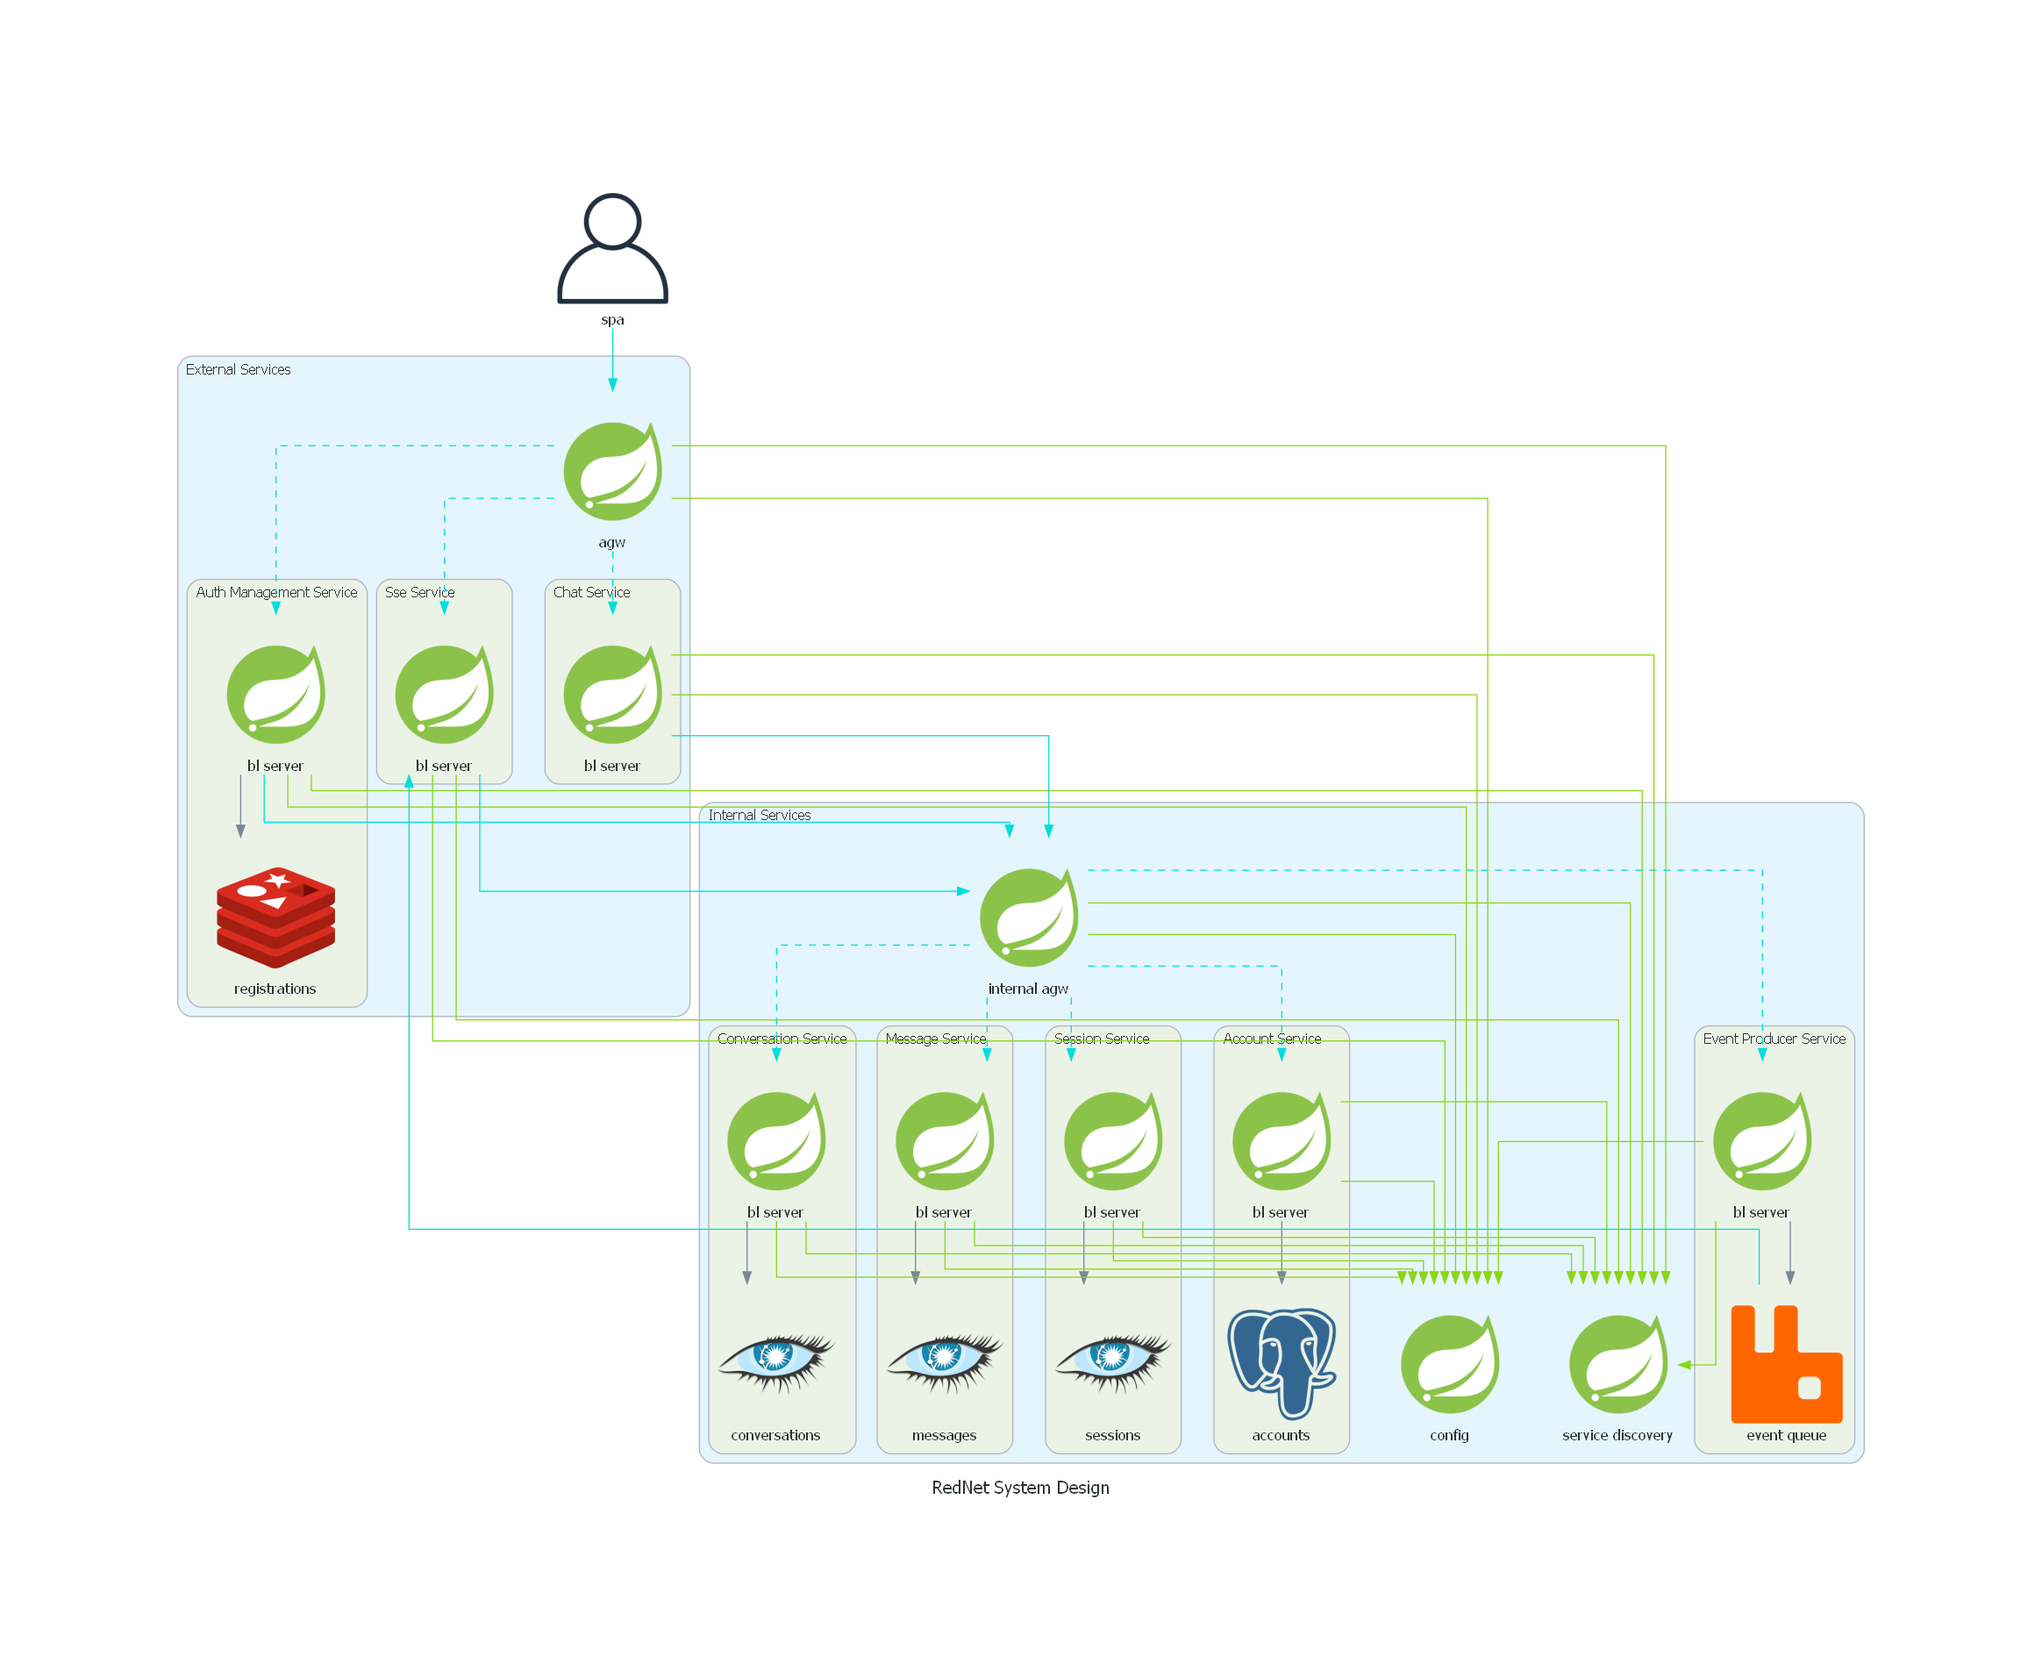
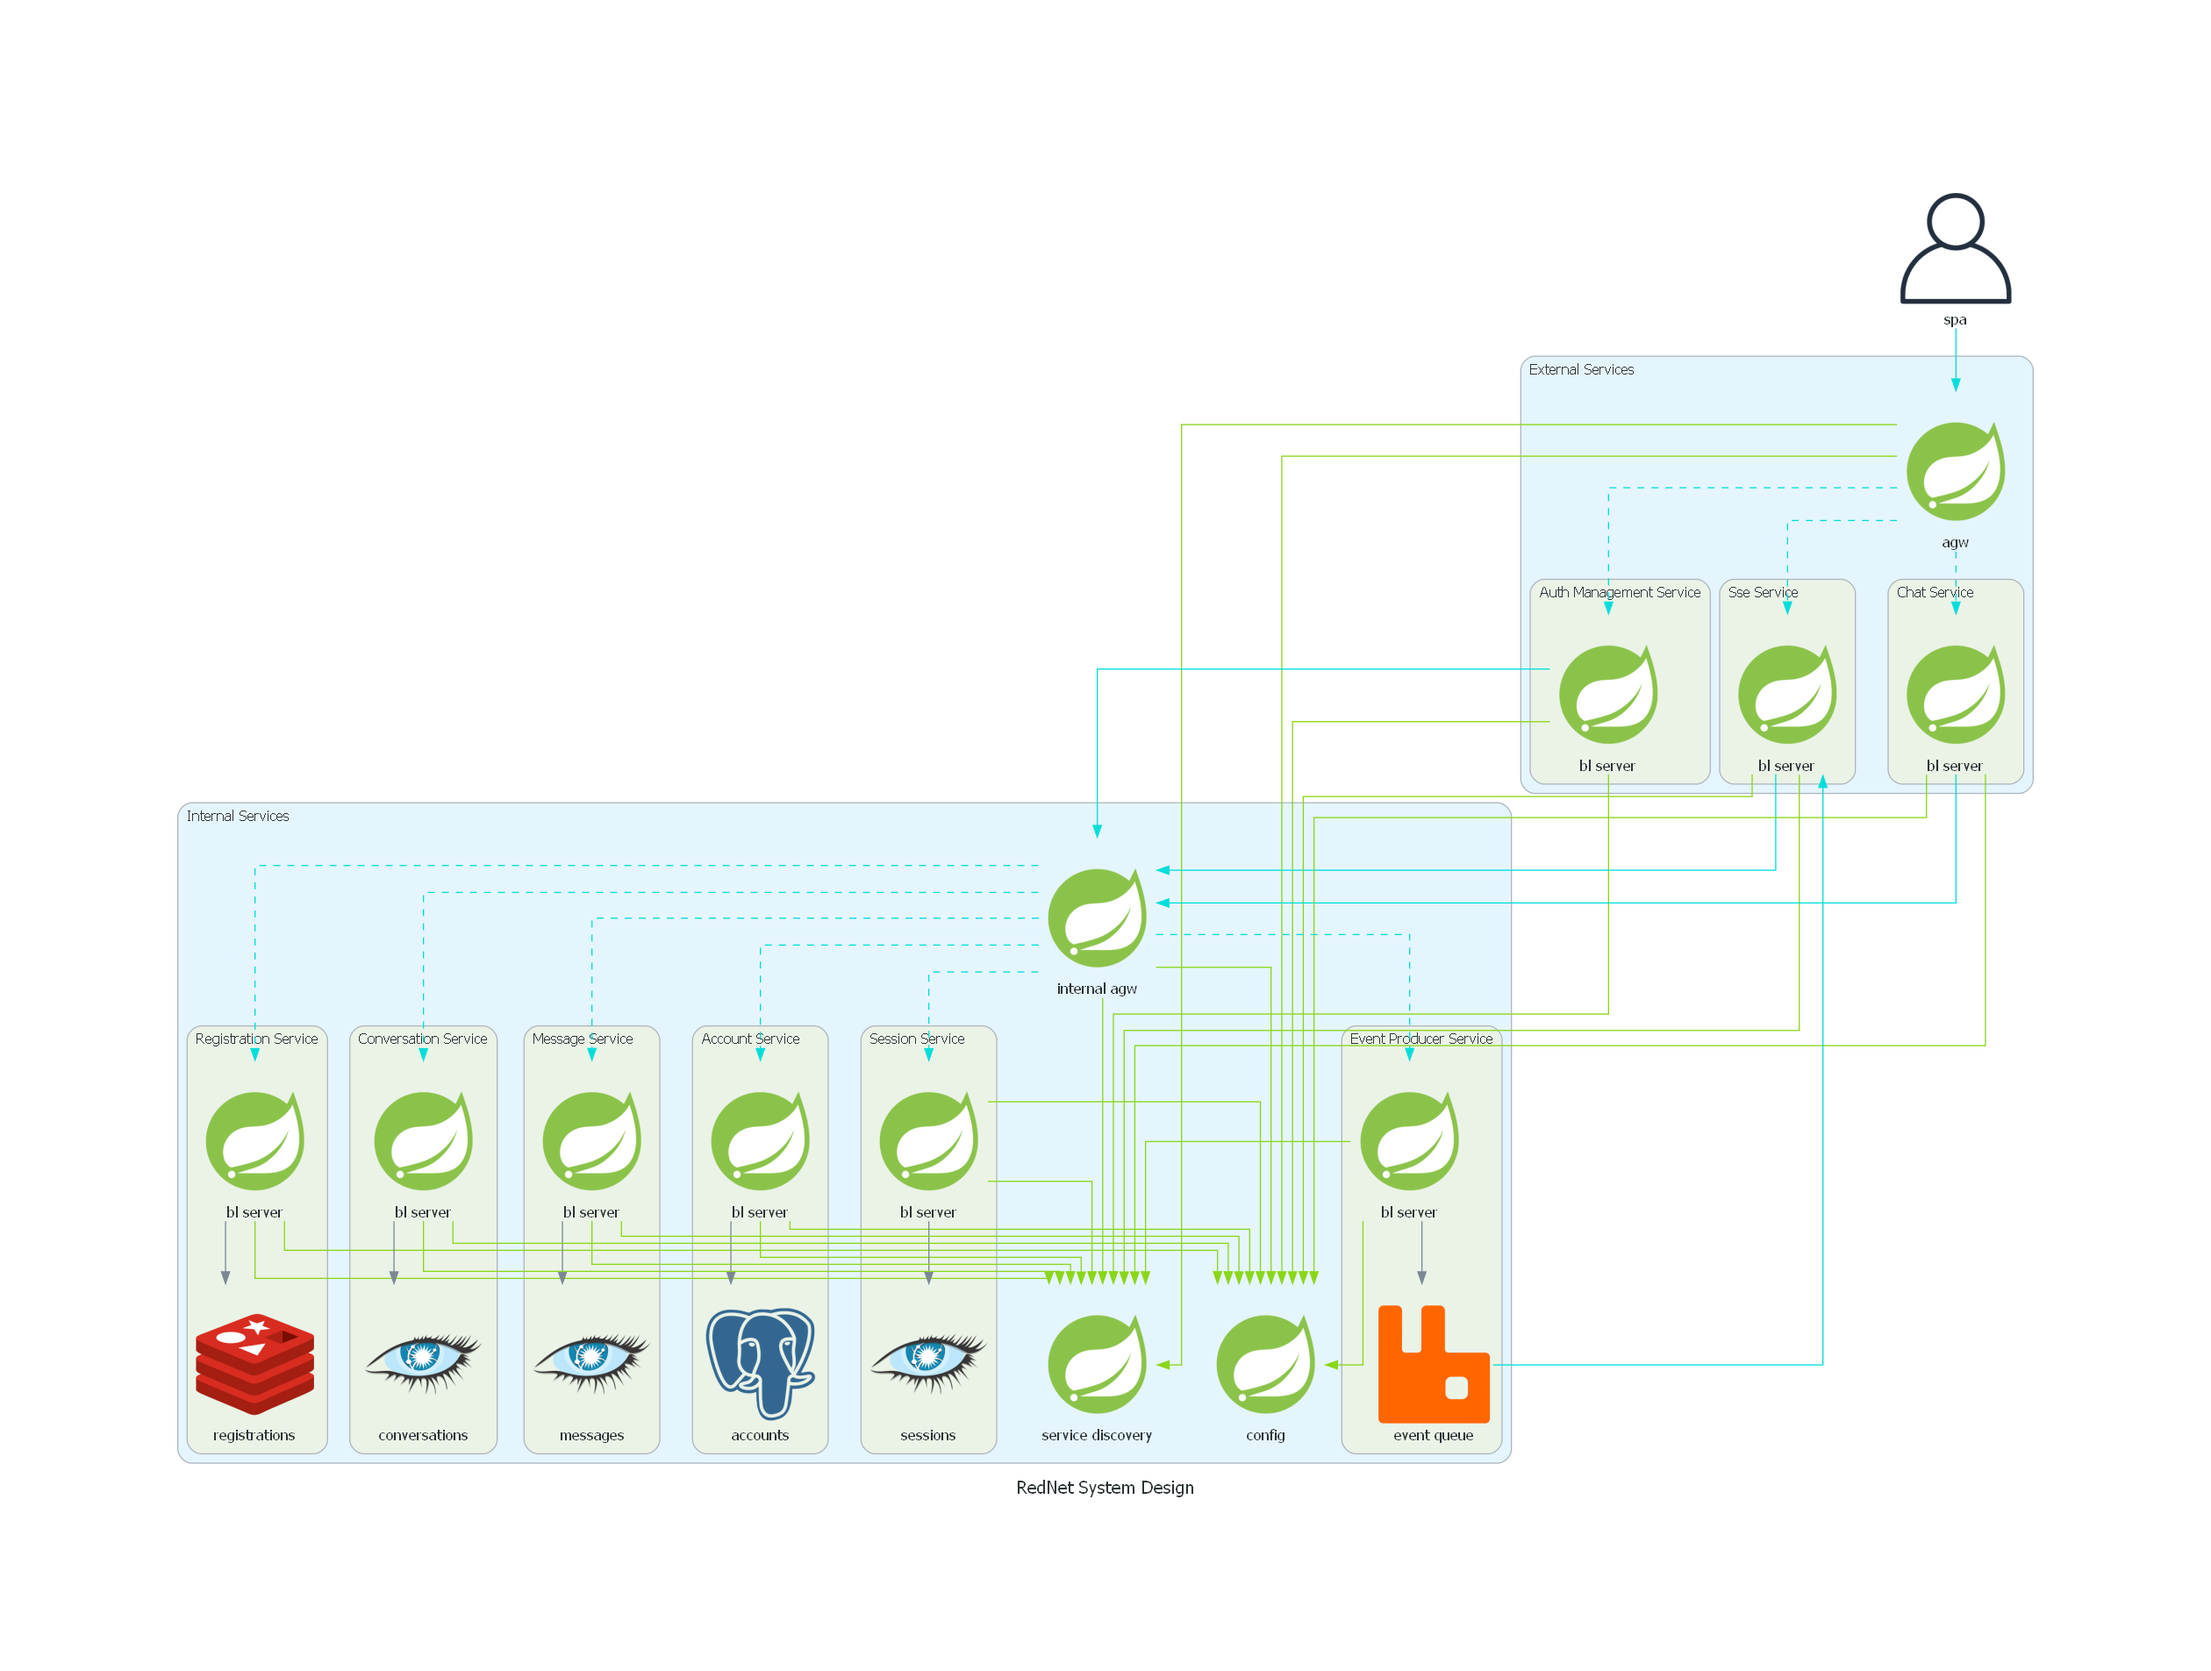
detached registrations repo to registration service

Changed region(s): [[0.0619, 0.1239, 0.9278, 0.8982], [0.3093, 0.5265, 0.3711, 0.5575], [0.5567, 0.3717, 0.5876, 0.4026]]

diff --git a/system-design-diagram.py b/system-design-diagram.py
@@ -23,9 +23,6 @@ with (Diagram(
 
         with Cluster("Auth Management Service"):
             auth_logic_server = Spring("bl server")
-            registrations_db = Redis("registrations")
-
-            auth_logic_server >> registrations_db
 
         with Cluster("Sse Service"):
             sse_logic_server = Spring("bl server")
@@ -37,6 +34,12 @@ with (Diagram(
         internal_agw = Spring("internal agw")
         config_service = Spring("config")
         service_discovery = Spring("service discovery")
+
+        with Cluster("Registration Service"):
+            registration_logic_server = Spring("bl server")
+            registrations_db = Redis("registrations")
+
+            registration_logic_server >> registrations_db
 
         with Cluster("Account Service"):
             account_logic_server = Spring("bl server")
@@ -75,6 +78,7 @@ with (Diagram(
         ]
 
         internal_service_group = [
+            registration_logic_server,
             account_logic_server,
             session_logic_server,
             event_logic_server,
